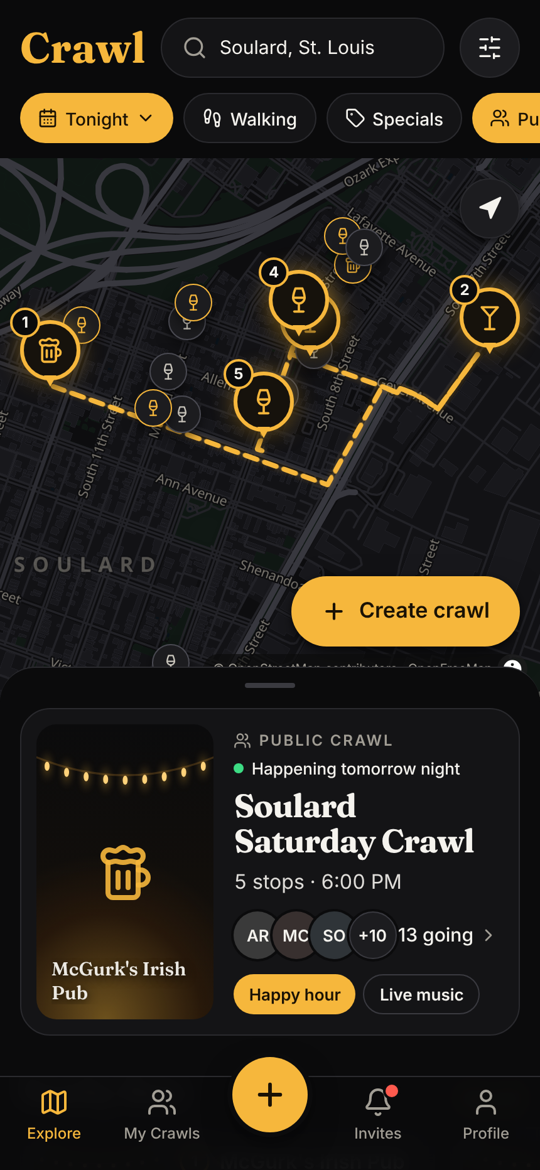
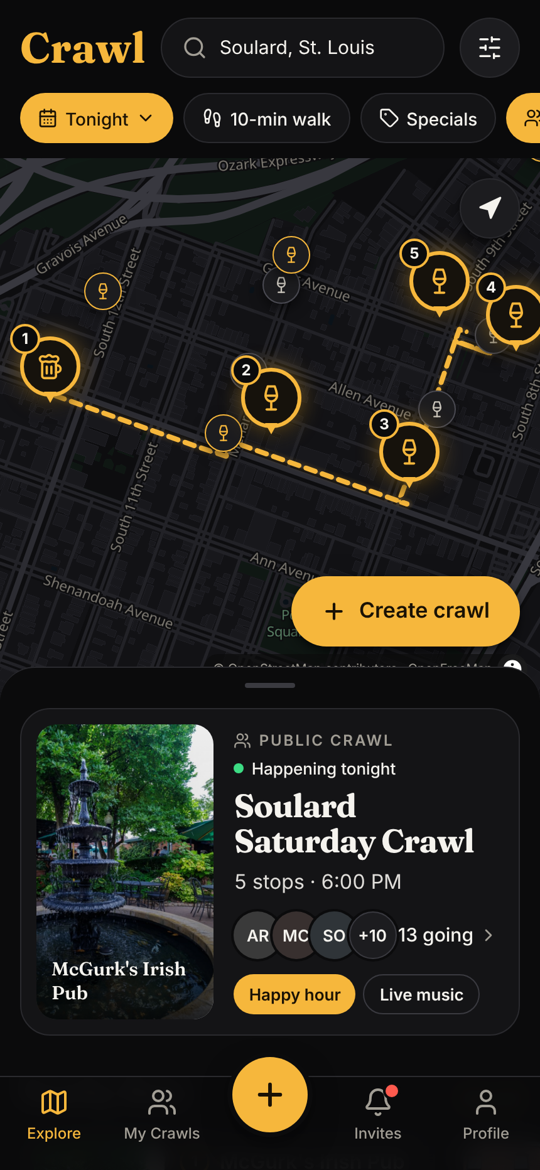
Add real venue photos and flag reported-closed venues
- 10 Soulard venue photos sourced from each venue's own website
  (no Commons coverage), resized and metadata-stripped, credited in-app;
  permission from venues is required before launch
- VenueImage component with illustrated fallback; photos on Explore,
  bar cards, venue sheet, My Crawls and share cards
- Venue status (open / reported_closed / closed): closed venues are
  hidden from search and can't be added; Llywelyn's Soulard and Bar 101
  flagged from research, demo crawls updated
- import-venue-images script and research manifest with sources

Claude-Session: https://claude.ai/code/session_014MMNdxMZM3tJLxTygkmbB2

diff --git a/apps/api/src/db/seed.ts b/apps/api/src/db/seed.ts
@@ -5,7 +5,7 @@
  * Specials here are SAMPLE data for development and demos (source = crowd, confidence 0.6).
  * They are not verified offers from these venues.
  */
-import { readFileSync } from 'node:fs';
+import { existsSync, readFileSync } from 'node:fs';
 import { DateTime } from 'luxon';
 import { CITIES } from '../cities/index.js';
 import { config } from '../config.js';
@@ -30,7 +30,7 @@ const CURATION: Record<string, Curation> = {
   'Great Grizzly Bear': { category: 'bar', price: 1, tags: ['Live music', 'Dive'] },
   Bastille: { category: 'bar', price: 1, tags: ['Neighborhood bar'] },
   "Big Daddy's": { category: 'bar', price: 1, tags: ['Sports bar'] },
-  'Hi Hat': { category: 'bar', price: 1, tags: ['Neighborhood bar'] },
+  'Hi Hat': { name: 'The Hi-Hat', category: 'bar', price: 1, tags: ['Neighborhood bar', 'Patio'] },
   'Eat Crow': { category: 'bar', price: 2, tags: ['Kitchen'] },
   "Duke's": { category: 'bar', price: 1, tags: ['Sports bar'] },
   'International Taphouse': { name: 'International Tap House', category: 'bar', price: 2, tags: ['Craft beer'] },
@@ -47,11 +47,10 @@ const SAMPLE_SPECIALS: [string, string, string, number[], string, string][] = [
   ["Molly's in Soulard", '$4 Wells', 'Well drinks', [], '15:00', '19:00'],
   ['1860 Saloon', '$2 off drafts', 'While the band plays', [5, 6], '21:00', '23:00'],
   ["Hammerstone's", '$3 late-night shots', 'House shots', [4, 5, 6], '22:00', '01:00'],
-  ["Llywelyn's Pub", 'Happy hour', '$5 Guinness and half-price apps', [1, 2, 3, 4, 5], '15:00', '18:00'],
   ['Great Grizzly Bear', '$2.50 PBR', 'Tallboys', [], '19:00', '21:00'],
   ['International Tap House', '$1 off craft drafts', 'All drafts', [], '17:00', '19:00'],
   ['Bastille', '$5 cocktails', 'House cocktails', [5, 6], '18:00', '20:00'],
-  ['Bar 101', 'Cocktail hour', '$6 signature cocktails', [3, 4, 5, 6], '17:00', '19:30'],
+  ['The Hi-Hat', 'Cocktail hour', '$6 house cocktails', [3, 4, 5, 6], '17:00', '19:30'],
   ['Eat Crow', 'Happy hour', '$1 off beer and wine', [1, 2, 3, 4, 5], '15:00', '18:00'],
 ];
 
@@ -73,18 +72,35 @@ async function main() {
   }
 
   const osm: any[] = JSON.parse(readFileSync(new URL('../../data/soulard-venues.json', import.meta.url), 'utf8'));
+  const creditsFile = new URL('../../data/venue-images/credits.json', import.meta.url);
+  const credits: Record<string, { file: string; author: string | null; license: string | null; sourcePage: string | null }> = existsSync(creditsFile)
+    ? JSON.parse(readFileSync(creditsFile, 'utf8'))
+    : {};
   const venueIds = new Map<string, string>();
   for (const v of osm) {
     const cur = CURATION[v.name] ?? {};
     const category = cur.category ?? (v.amenity === 'pub' ? 'pub' : v.amenity === 'biergarten' ? 'biergarten' : 'bar');
     const row = await one(
-      `insert into venues (osm_id, name, name_override, lat, lng, address, neighborhood_id, category, price_level, tags, opening_hours, source, synced_at)
-       values ($1,$2,$3,$4,$5,$6,'soulard',$7,$8,$9,$10,'osm', now()) returning id`,
-      [v.osm_id, v.name, cur.name ?? null, v.lat, v.lng, v.address, category, cur.price ?? 1, cur.tags ?? [], v.opening_hours],
+      `insert into venues (osm_id, name, name_override, lat, lng, address, neighborhood_id, category, price_level, tags, opening_hours, source, synced_at, image_url, image_credit)
+       values ($1,$2,$3,$4,$5,$6,'soulard',$7,$8,$9,$10,'osm', now(), $11, $12) returning id`,
+      [
+        v.osm_id, v.name, cur.name ?? null, v.lat, v.lng, v.address, category, cur.price ?? 1, cur.tags ?? [], v.opening_hours,
+        credits[v.osm_id] ? `/v1/venue-images/${credits[v.osm_id].file}` : null,
+        credits[v.osm_id] ? JSON.stringify({ author: credits[v.osm_id].author, license: credits[v.osm_id].license, sourcePage: credits[v.osm_id].sourcePage }) : null,
+      ],
     );
     venueIds.set(cur.name ?? v.name, row!.id);
   }
   console.log(`Venues: ${venueIds.size} (Soulard, from OpenStreetMap)`);
+
+  // Closure reports gathered during venue research (Oct 2026). Verify before launch.
+  const REPORTED_CLOSED: Record<string, string> = {
+    "Llywelyn's Pub": 'Riverfront Times reported the Soulard location appears closed for good; the chain no longer lists it.',
+    'Bar 101': 'Website domain is parked and no recent coverage was found; may be closed.',
+  };
+  for (const [name, note] of Object.entries(REPORTED_CLOSED)) {
+    await query(`update venues set status = 'reported_closed', status_note = $2 where id = $1`, [venueIds.get(name), note]);
+  }
 
   for (const [venue, title, details, days, start, end] of SAMPLE_SPECIALS) {
     const venueId = venueIds.get(venue);
@@ -133,7 +149,7 @@ async function main() {
     start: tonight,
     stops: [
       ["Molly's in Soulard", 45],
-      ['Bar 101', 40],
+      ['The Hi-Hat', 40],
       ["Hammerstone's", 45],
       ['1860 Saloon', 50],
       ["McGurk's Irish Pub", 45],
@@ -155,7 +171,7 @@ async function main() {
     visibility: 'private',
     start: tonight.plus({ days: 6 }).set({ hour: 19, minute: 30 }),
     stops: [
-      ["Llywelyn's Pub", 50],
+      ['Eat Crow', 50],
       ['International Tap House', 45],
       ['Great Grizzly Bear', 45],
     ],
@@ -180,7 +196,7 @@ async function main() {
       ['The Biergarten', 60],
       ["Big Daddy's", 45],
       ['Bastille', 40],
-      ['Bar 101', 45],
+      ["Duke's", 45],
     ],
     members: users.slice(8, 14).map((u) => [u, 'going']),
     status: 'planned',

diff --git a/apps/api/src/scripts/import-venue-images.ts b/apps/api/src/scripts/import-venue-images.ts
@@ -1,0 +1,41 @@
+/**
+ * Process curated venue photos into data/venue-images:
+ *   <osm-type>-<id>.jpg      1600 px max, for sheets and share cards
+ *   <osm-type>-<id>-480.jpg  640×480 crop, for list tiles
+ * and record credits in data/venue-images/credits.json (read by the seed).
+ *
+ *   npx tsx src/scripts/import-venue-images.ts <manifest.json> <source-dir>
+ *
+ * Manifest rows: { osmName, file, imageUrl, sourcePage, license, author, notes }.
+ * Metadata (EXIF, GPS) is stripped by re-encoding.
+ */
+import { mkdirSync, readFileSync, writeFileSync } from 'node:fs';
+import { join } from 'node:path';
+import sharp from 'sharp';
+import { venueImageFile } from '../routes/venueImages.js';
+
+const [manifestPath, sourceDir] = process.argv.slice(2);
+if (!manifestPath || !sourceDir) throw new Error('usage: import-venue-images <manifest.json> <source-dir>');
+const outDir = new URL('../../data/venue-images/', import.meta.url).pathname;
+mkdirSync(outDir, { recursive: true });
+
+const venues: { osm_id: string; name: string }[] = JSON.parse(readFileSync(new URL('../../data/soulard-venues.json', import.meta.url), 'utf8'));
+const manifest: any[] = JSON.parse(readFileSync(manifestPath, 'utf8'));
+const credits: Record<string, { file: string; author: string | null; license: string | null; sourcePage: string | null }> = {};
+
+for (const row of manifest) {
+  if (!row.file) continue;
+  const venue = venues.find((v) => v.name === row.osmName);
+  if (!venue) {
+    console.warn(`skip: no venue named ${row.osmName}`);
+    continue;
+  }
+  const src = readFileSync(join(sourceDir, row.file));
+  const full = venueImageFile(venue.osm_id);
+  await sharp(src).rotate().resize({ width: 1600, height: 1200, fit: 'inside', withoutEnlargement: true }).jpeg({ quality: 80, mozjpeg: true }).toFile(join(outDir, full));
+  await sharp(src).rotate().resize({ width: 640, height: 480, fit: 'cover', position: 'attention' }).jpeg({ quality: 78, mozjpeg: true }).toFile(join(outDir, venueImageFile(venue.osm_id, 'thumb')));
+  credits[venue.osm_id] = { file: full, author: row.author ?? null, license: row.license ?? null, sourcePage: row.sourcePage ?? row.imageUrl ?? null };
+  console.log(`${venue.name}: ${full}`);
+}
+writeFileSync(join(outDir, 'credits.json'), JSON.stringify(credits, null, 2) + '\n');
+console.log(`${Object.keys(credits).length} venue images processed.`);

diff --git a/apps/api/src/services/repo.ts b/apps/api/src/services/repo.ts
@@ -80,7 +80,7 @@ export async function specialsForVenues(venueIds: string[], crawlId: string | nu
 }
 
 const VENUE_COLS = `v.id, v.osm_id, coalesce(v.name_override, v.name) as name, v.lat, v.lng, v.address, v.category, v.price_level,
-  v.tags, v.opening_hours, v.image_url, v.image_credit, v.neighborhood_id`;
+  v.tags, v.opening_hours, v.image_url, v.image_credit, v.status, v.status_note, v.neighborhood_id`;
 
 export function venueDTO(r: any, specials: any[], tz: string, now = Date.now()): VenueDTO {
   return {
@@ -97,6 +97,8 @@ export function venueDTO(r: any, specials: any[], tz: string, now = Date.now()):
     openNow: hoursGuard(r.opening_hours, tz).isOpenAt(now) ?? null,
     imageUrl: r.image_url,
     imageCredit: r.image_credit ?? null,
+    status: r.status ?? 'open',
+    statusNote: r.status_note ?? null,
     neighborhoodId: r.neighborhood_id,
     specials: specials.filter((s) => s.venue_id === r.id).map((s) => specialDTO(s, tz, now)),
     ...(r.distance_m != null ? { distanceM: r.distance_m } : {}),
@@ -114,7 +116,7 @@ export async function searchVenues(opts: {
   near?: { lat: number; lng: number };
   limit?: number;
 }): Promise<VenueDTO[]> {
-  const where: string[] = [];
+  const where: string[] = [`v.status = 'open'`];
   const params: unknown[] = [];
   if (opts.q) {
     params.push(`%${opts.q.toLowerCase()}%`);
@@ -139,7 +141,7 @@ export async function searchVenues(opts: {
   }
   params.push(opts.limit ?? 100);
   const rows = await query(
-    `select ${VENUE_COLS}, ${distance} as distance_m from venues v ${where.length ? 'where ' + where.join(' and ') : ''}
+    `select ${VENUE_COLS}, ${distance} as distance_m from venues v where ${where.join(' and ')}
      order by ${opts.near ? 'distance_m' : 'name'} limit $${params.length}`,
     params,
   );

diff --git a/apps/api/test/tier1.test.ts b/apps/api/test/tier1.test.ts
@@ -131,3 +131,25 @@ describe('link previews', () => {
     expect(html.body).not.toContain('Tier 1 crawl');
   });
 });
+
+describe('venue photos and closures', () => {
+  it('serves curated venue photos and rejects anything else', async () => {
+    const ok = await app.inject({ method: 'GET', url: '/v1/venue-images/relation-8869242-480.jpg' });
+    expect(ok.statusCode).toBe(200);
+    expect(ok.headers['content-type']).toBe('image/jpeg');
+    const bad = await app.inject({ method: 'GET', url: '/v1/venue-images/..%2F..%2Fpackage.json' });
+    expect(bad.statusCode).toBe(400);
+  });
+
+  it('hides reported-closed venues from search and new crawls', async () => {
+    await query(`update venues set status = 'reported_closed' where osm_id = 'way/2'`);
+    const res = await app.inject({ method: 'GET', url: '/v1/venues/search?q=bar' });
+    expect(res.json().map((v: any) => v.name)).toEqual(['Bar One']);
+    const c = await crawl(600);
+    const closed = (await one(`select id from venues where osm_id = 'way/2'`))!.id;
+    await query('delete from crawl_stops where crawl_id = $1 and venue_id = $2', [c, closed]);
+    const add = await app.inject({ method: 'POST', url: `/v1/crawls/${c}/stops`, headers: auth(org), payload: { venueId: closed } });
+    expect(add.statusCode).toBe(400);
+    expect(add.json().code).toBe('venue_closed');
+  });
+});

diff --git a/apps/api/src/routes/og.ts b/apps/api/src/routes/og.ts
@@ -99,7 +99,7 @@ async function renderCard(opts: { kicker: string; title: string; lines: string[]
     <radialGradient id="glow" cx="20%" cy="100%" r="80%"><stop offset="0" stop-color="#f6b73c" stop-opacity=".35"/><stop offset="1" stop-color="#0b0b0c" stop-opacity="0"/></radialGradient>
     <linearGradient id="fade" x1="0" x2="1"><stop offset="0" stop-color="#0b0b0c" stop-opacity="0"/><stop offset="1" stop-color="#0b0b0c" stop-opacity="1"/></linearGradient>
   </defs>
-  <rect width="${W}" height="${H}" fill="#0b0b0c"/>
+  <rect x="${opts.photo ? photoW : 0}" width="${opts.photo ? W - photoW : W}" height="${H}" fill="#0b0b0c"/>
   ${opts.photo ? `<rect x="${photoW - 120}" y="0" width="120" height="${H}" fill="url(#fade)"/>` : `<rect width="${photoW}" height="${H}" fill="url(#glow)"/>`}
   <text x="${photoW + 60}" y="${titleY - 70}" font-family="DejaVu Sans" font-size="24" font-weight="bold" letter-spacing="4" fill="#f6b73c">${esc(opts.kicker.toUpperCase())}</text>
   ${titleLines.map((l, i) => `<text x="${photoW + 60}" y="${titleY + i * 66}" font-family="DejaVu Serif" font-size="56" font-weight="bold" fill="#f5f3ee">${esc(l)}</text>`).join('')}

diff --git a/apps/web/src/components/domain.tsx b/apps/web/src/components/domain.tsx
@@ -80,7 +80,9 @@ export function VenueImage({
 
 export function PhotoCredit({ credit }: { credit: ImageCreditDTO | null }) {
   if (!credit) return null;
-  const text = ['Photo', credit.author ? `by ${credit.author}` : null, credit.license ? `· ${credit.license}` : null].filter(Boolean).join(' ');
+  // Venue-supplied photos read as "Photo: <venue>"; openly licensed ones also show the license.
+  const showLicense = credit.license && !/permission|courtesy/i.test(credit.license);
+  const text = `Photo: ${credit.author ?? (credit.sourcePage ? new URL(credit.sourcePage).hostname.replace(/^www\./, '') : 'venue')}${showLicense ? ` · ${credit.license}` : ''}`;
   return credit.sourcePage ? (
     <a href={credit.sourcePage} target="_blank" rel="noreferrer" className="text-[11px] text-faint underline-offset-2 hover:underline">
       {text}

diff --git a/apps/api/src/routes/crawls.ts b/apps/api/src/routes/crawls.ts
@@ -164,6 +164,9 @@ export async function crawlRoutes(app: FastifyInstance) {
     const body = z.object({ venueId: uuid, dwellMin: z.number().int().min(10).max(180).default(45) }).parse(req.body);
     const count = await one<{ n: number }>('select count(*)::int as n from crawl_stops where crawl_id = $1', [id]);
     if (count!.n >= 15) throw badRequest('A crawl can have at most 15 stops');
+    const venue = await one('select status from venues where id = $1', [body.venueId]);
+    if (!venue) throw notFound('Venue not found');
+    if (venue.status !== 'open') throw badRequest('That bar has been reported closed', 'venue_closed');
     const exists = await one('select 1 from crawl_stops where crawl_id = $1 and venue_id = $2', [id, body.venueId]);
     if (exists) throw conflict('That bar is already on the crawl');
     await query(

diff --git a/apps/web/src/features/VenueSheet.tsx b/apps/web/src/features/VenueSheet.tsx
@@ -37,6 +37,11 @@ export function VenueSheet({ venueId, onClose, actions }: { venueId: string | nu
           <div className="mt-1 text-right">
             <PhotoCredit credit={v.imageCredit} />
           </div>
+          {v.status !== 'open' ? (
+            <p className="mt-3 rounded-2xl border border-line-strong px-4 py-3 text-[14px]">
+              <span className="font-semibold">Reported closed.</span> <span className="text-dim">{v.statusNote}</span>
+            </p>
+          ) : null}
           <div className="mt-4 space-y-2 text-[15px]">
             {v.address ? (
               <p className="flex items-center gap-2 text-dim">

diff --git a/packages/core/src/api.ts b/packages/core/src/api.ts
@@ -58,6 +58,9 @@ export interface VenueDTO {
   imageUrl: string | null;
   /** Photo credit for imageUrl (author, license, where it came from). */
   imageCredit: ImageCreditDTO | null;
+  /** 'reported_closed' venues are hidden from search and can't be added to new crawls. */
+  status: 'open' | 'reported_closed' | 'closed';
+  statusNote: string | null;
   neighborhoodId: string | null;
   specials: SpecialDTO[];
   distanceM?: number;

diff --git a/README.md b/README.md
@@ -15,9 +15,13 @@ Plan a pub crawl on open-source maps, invite your crew, and run it live. It laun
 - **Safety card.** Call 911, the 988 Lifeline, the crawl's Designated Driver, Uber or Lyft, and two local cab companies (numbers checked against each company's own site). You can also share your location as a map link. After the crawl, members tap **I'm home**, and the organizer sees who hasn't confirmed yet.
 - **Link previews.** Invite and public crawl links show a title, date, first stop and a generated share image in iMessage, WhatsApp, Slack and similar apps.
 
-| Explore | Live crawl | Route review | People |
+| Explore | Live crawl | Safety | Offline |
 | --- | --- | --- | --- |
-| ![Explore](docs/screens/explore.png) | ![Live](docs/screens/live.png) | ![Route](docs/screens/route.png) | ![People](docs/screens/people.png) |
+| ![Explore](docs/screens/explore.png) | ![Live](docs/screens/live.png) | ![Safety](docs/screens/safety.png) | ![Offline](docs/screens/offline.png) |
+
+Invite links preview with a generated share card:
+
+![Share card](docs/screens/share-card.jpg)
 
 ## Quick start (local)
 
@@ -78,6 +82,8 @@ See `apps/api/.env.example`. The most important settings:
 - `VITE_TILES_URL` / `VITE_GLYPHS_URL` (web): an OpenMapTiles-schema vector source. The default is OpenFreeMap; point it at self-hosted tiles for production.
 
 ## Data and attribution
+
+**Venue photos** (`apps/api/data/venue-images/`): 10 Soulard bars have photos taken from each venue's **own website** and credited in-app ("Photo: McGurk's"). No openly licensed photos of these bars existed on Wikimedia Commons. **Get each venue's permission before launch, or replace the photos** through a venue-claim upload. `research-manifest.json` records the source page for every photo and why the other 11 bars have none. The other bars show illustrated art. Two venues are flagged `reported_closed` and hidden from discovery until someone verifies them: Llywelyn's Soulard and Bar 101. Re-run `npx tsx src/scripts/import-venue-images.ts <manifest> <dir>` to refresh.
 
 Venue locations, hours, roads and parks come from © OpenStreetMap contributors (ODbL). Display names, tags and price levels in the seed are app-side curation. They are stored as overrides and never written back to OSM. **The seeded drink specials are sample data for development**: they are labeled crowd-reported and are not verified offers from those venues.
 
